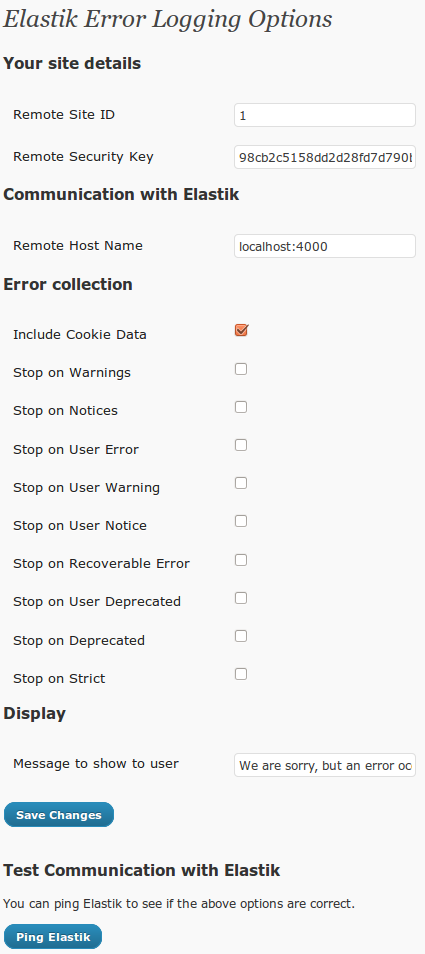
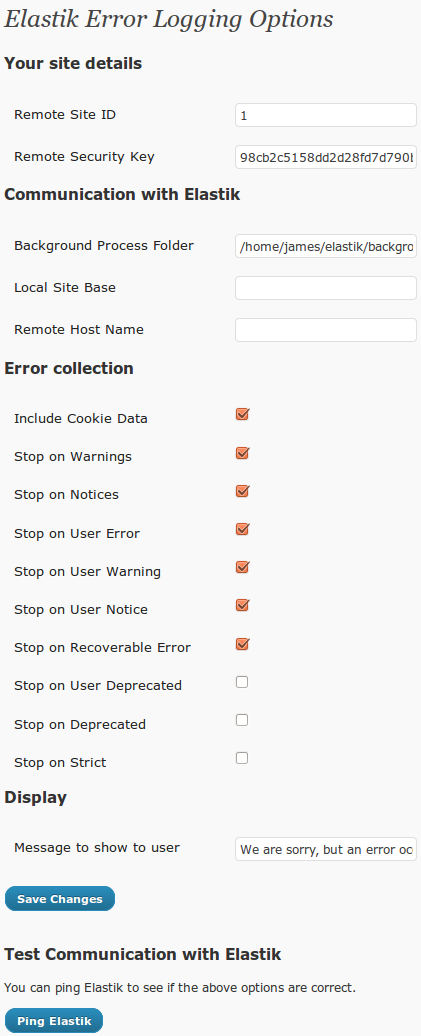
Added local folder and background process methods of sending data. Also added a user friendly message, if it appears that the user has not filled in the settings properly.
git-svn-id: https://plugins.svn.wordpress.org/elastik-error-logging/trunk@358848 b8457f37-d9ea-0310-8a92-e5e31aec5664

diff --git a/ElastikErrorLogging.php b/ElastikErrorLogging.php
@@ -3,17 +3,23 @@
 Plugin Name: elastik-error-logging
 Plugin URI: http://wordpress.org/extend/plugins/elastik-error-logging/
 Description: Logs errors with full information to an Elastik Ticket System. Errors can be tracked and emails can be sent to devs from there.L
-Version: 0.1
+Version: 0.2
 Author: James
 Author URI: http://jarofgreen.co.uk
 License: BSD
 */
 
 class ElastikErrorLogging {
+	/** This is used by Local Error Reporting communication method only **/
+	public static $PHPExec = 'php';
+
 	public static function activate() {
-		add_option('ElastikErrorLoggingRemoteHost', '');
 		add_option('ElastikErrorLoggingRemoteID', '');
 		add_option('ElastikErrorLoggingRemoteSecurityKey', '');
+
+		add_option('ElastikErrorLoggingRemoteHost', '');
+		add_option('ElastikErrorLoggingLocalSiteBase', '');
+		add_option('ElastikErrorLoggingBackgroundFolder', '');
 
 		add_option('ElastikErrorLoggingIncludeCookies', 'yes');
 
@@ -48,16 +54,31 @@ class ElastikErrorLogging {
 	}
 
 	public static function init() {
-		if (get_option('ElastikErrorLoggingRemoteHost') && get_option('ElastikErrorLoggingRemoteID') && get_option('ElastikErrorLoggingRemoteSecurityKey')) {
+		if (self::isConfiguredFastMethod()) {
 			set_exception_handler('ElastikErrorLogging::report_exception');
 			set_error_handler('ElastikErrorLogging::report_error');
 			register_shutdown_function('ElastikErrorLogging::shut_down_function');
 		}
 	}
 
+	/** only uses quick validation methods, eg, no file system checks  **/
+	public static function isConfiguredFastMethod() {
+		if (!intval(get_option('ElastikErrorLoggingRemoteID'))) return false;
+		if (strlen(get_option('ElastikErrorLoggingRemoteSecurityKey')) < 10 ) return false;
+
+		return get_option('ElastikErrorLoggingRemoteHost') || get_option('ElastikErrorLoggingLocalSiteBase') || get_option('ElastikErrorLoggingBackgroundFolder');
+	}
+
+	public static function isConfiguredCompleteMethod() {
+		if (!self::isConfiguredFastMethod()) return false;
+		// TODO: File system checks, if appropriate.
+		return true;
+	}
+
 	public static function options_page() {
 		$SERVER_PINGED = false;
-		if (isset($_POST['PingServer']) && $_POST['PingServer'] == 'please') {
+		$IS_CONFIGURED = ElastikErrorLogging::isConfiguredCompleteMethod();
+		if ($IS_CONFIGURED && isset($_POST['PingServer']) && $_POST['PingServer'] == 'please') {
 			self::ping_server();
 			$SERVER_PINGED = true;
 		}
@@ -182,6 +203,18 @@ class ElastikErrorLogging {
 		$data['SiteSecurityKey'] = get_option('ElastikErrorLoggingRemoteSecurityKey');
 		//print_r($data);
 
+		if (get_option('ElastikErrorLoggingBackgroundFolder')) {
+			self::send_background_data($data);
+		} else if (get_option('ElastikErrorLoggingLocalSiteBase')) {
+			self::send_local_data($data);
+		} else if (get_option('ElastikErrorLoggingRemoteHost')) {
+			self::send_remote_data($data);
+		} else {
+			die('You have not configured any communication methods!');
+		}
+	}
+
+	private static function send_remote_data($data) {
 		$url = "http://".get_option('ElastikErrorLoggingRemoteHost')."/mod.ErrorReportingService/api.php";
 
 		// Method 1: CURL
@@ -243,6 +276,53 @@ class ElastikErrorLogging {
 
 	}
 
+	private static function send_local_data($data) {
+		$exec =  self::$PHPExec.' '.get_option('ElastikErrorLoggingLocalSiteBase').DIRECTORY_SEPARATOR.'mod.ErrorReportingService'.DIRECTORY_SEPARATOR.'includes'.DIRECTORY_SEPARATOR.'localAPI.php';
+
+		$descriptorspec = array(
+		   0 => array("pipe", "r"),  // stdin
+		   1 => array("pipe", "w"),  // stdout
+		   2 => array("pipe", "r") // stderr
+		);
+		$cwd = get_option('ElastikErrorLoggingLocalSiteBase');
+		$env = array();
+
+		$process = proc_open($exec, $descriptorspec, $pipes, $cwd, $env);
+
+		if (is_resource($process)) {
+
+			fwrite($pipes[0], serialize($data));
+			fclose($pipes[0]);
+
+			$output = stream_get_contents($pipes[1]);
+			fclose($pipes[1]);
+
+			$error = stream_get_contents($pipes[2]);
+			fclose($pipes[2]);
+
+			$return_value = proc_close($process);
+			return;
+		}
+
+		print self::$errorMessageForUserEscapeContent;
+		print "WE COULD NOT SEND DATA AS NO SUITABLE MECHANISM WAS FOUND!";
+		die();
+	}
+
+	private static function send_background_data($data) {
+		$tmpfname = tempnam(get_option('ElastikErrorLoggingBackgroundFolder'), "ElastikErrorReportingService");
+
+		$handle = fopen($tmpfname, "w");
+		if ($handle){
+			fwrite($handle, serialize($data));
+			fclose($handle);
+			return;
+		}
+
+		print self::$errorMessageForUserEscapeContent;
+		print "WE COULD NOT SEND DATA AS NO SUITABLE MECHANISM WAS FOUND!";
+		die();
+	}
 }
 
 if (function_exists('add_action')) {

diff --git a/options.php b/options.php
@@ -1,6 +1,12 @@
 <div class="wrap">
 	<h2>Elastik Error Logging Options</h2>
 
+	<?php if (!$IS_CONFIGURED) { ?>
+		<div class="error">
+			<p>This does not seem to be configured properly! You need all your site details and at least one method to communicate with Elastik!</p>
+		</div>
+	<?php } ?>
+
 	<form method="post" action="options.php">
 		<?php wp_nonce_field('update-options'); ?>
 
@@ -23,7 +29,17 @@
 		<h3>Communication with Elastik</h3>
 
 		<table class="form-table">
-
+			
+			<tr valign="top">
+				<th scope="row">Background Process Folder</th>
+				<td><input type="text" name="ElastikErrorLoggingBackgroundFolder" value="<?php echo get_option('ElastikErrorLoggingBackgroundFolder'); ?>" /></td>
+			</tr>
+			
+			<tr valign="top">
+				<th scope="row">Local Site Base</th>
+				<td><input type="text" name="ElastikErrorLoggingLocalSiteBase" value="<?php echo get_option('ElastikErrorLoggingLocalSiteBase'); ?>" /></td>
+			</tr>
+			
 			<tr valign="top">
 				<th scope="row">Remote Host Name</th>
 				<td><input type="text" name="ElastikErrorLoggingRemoteHost" value="<?php echo get_option('ElastikErrorLoggingRemoteHost'); ?>" /></td>
@@ -62,7 +78,7 @@
 
 
 		<input type="hidden" name="action" value="update" />
-		<input type="hidden" name="page_options" value="<?php echo implode(",",  array_keys($ERROR_TYPES)) ?>,ElastikErrorLoggingErrorMessage,ElastikErrorLoggingIncludeCookies,ElastikErrorLoggingRemoteHost,ElastikErrorLoggingRemoteID,ElastikErrorLoggingRemoteSecurityKey" />
+		<input type="hidden" name="page_options" value="<?php echo implode(",",  array_keys($ERROR_TYPES)) ?>,ElastikErrorLoggingErrorMessage,ElastikErrorLoggingIncludeCookies,ElastikErrorLoggingRemoteHost,ElastikErrorLoggingRemoteID,ElastikErrorLoggingRemoteSecurityKey,ElastikErrorLoggingLocalSiteBase,ElastikErrorLoggingBackgroundFolder" />
 
 		<p class="submit">
 			<input type="submit" class="button-primary" value="<?php _e('Save Changes') ?>" />
@@ -70,17 +86,20 @@
 
 	</form>
 
+	<?php if ($IS_CONFIGURED) { ?>
 
-	<h3>Test Communication with Elastik</h3>
+		<h3>Test Communication with Elastik</h3>
 
-	<?php if ($SERVER_PINGED) { ?>
-		<p>We attempted to ping the server. Please check the server to see if the ping was recorded.</p>
-	<?php } else { ?>
-		<p>You can ping Elastik to see if the above options are correct.
-		<form method="post" action="">
-			<input type="hidden" name="PingServer" value="please">
-			<input type="submit" class="button-primary" value="Ping Elastik" />
-		</form>
+		<?php if ($SERVER_PINGED) { ?>
+			<p>We attempted to ping the server. Please check the server to see if the ping was recorded.</p>
+		<?php } else { ?>
+			<p>You can ping Elastik to see if the above options are correct.
+			<form method="post" action="">
+				<input type="hidden" name="PingServer" value="please">
+				<input type="submit" class="button-primary" value="Ping Elastik" />
+			</form>
+		<?php } ?>
+
 	<?php } ?>
 
 </div>
